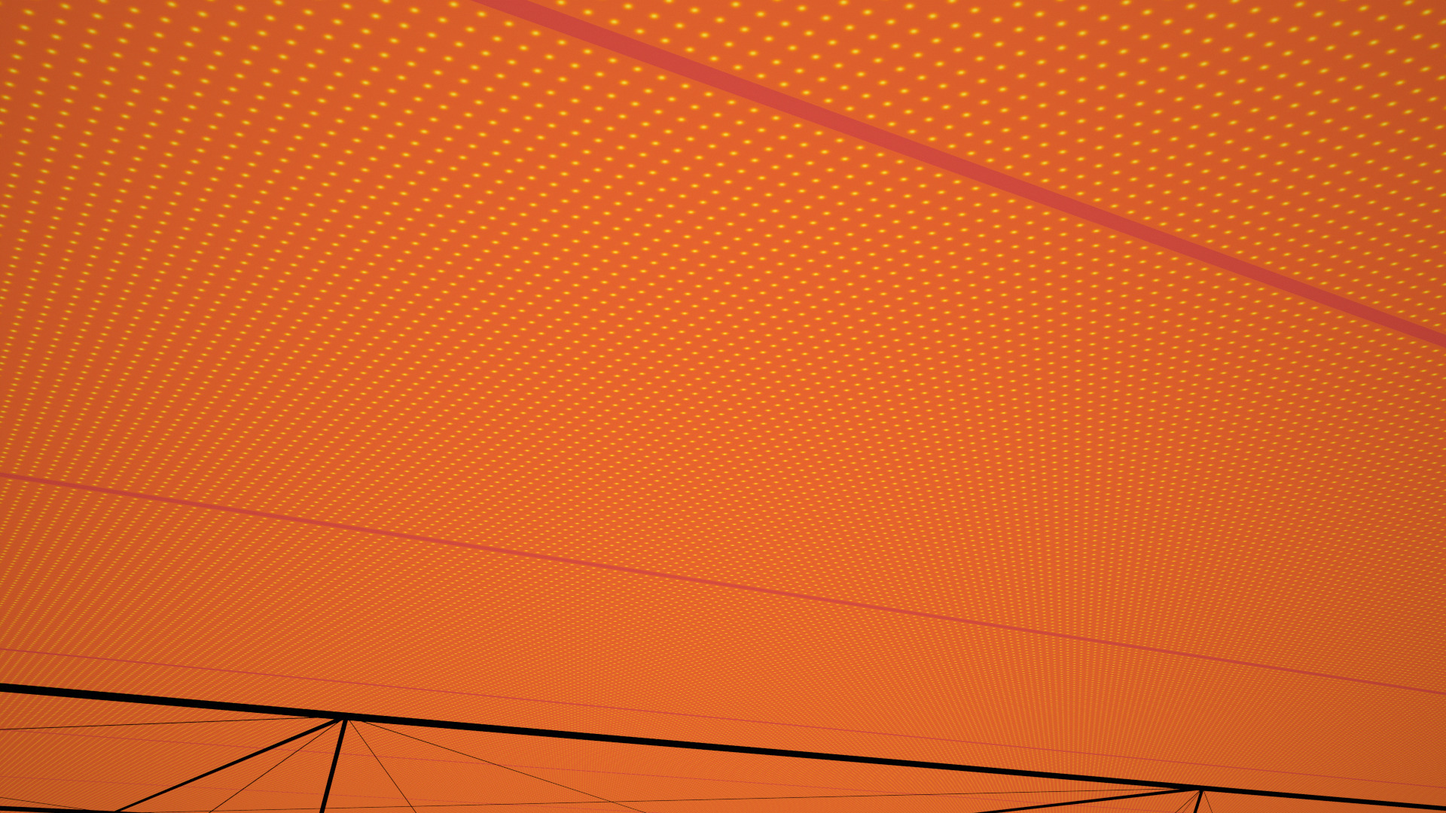
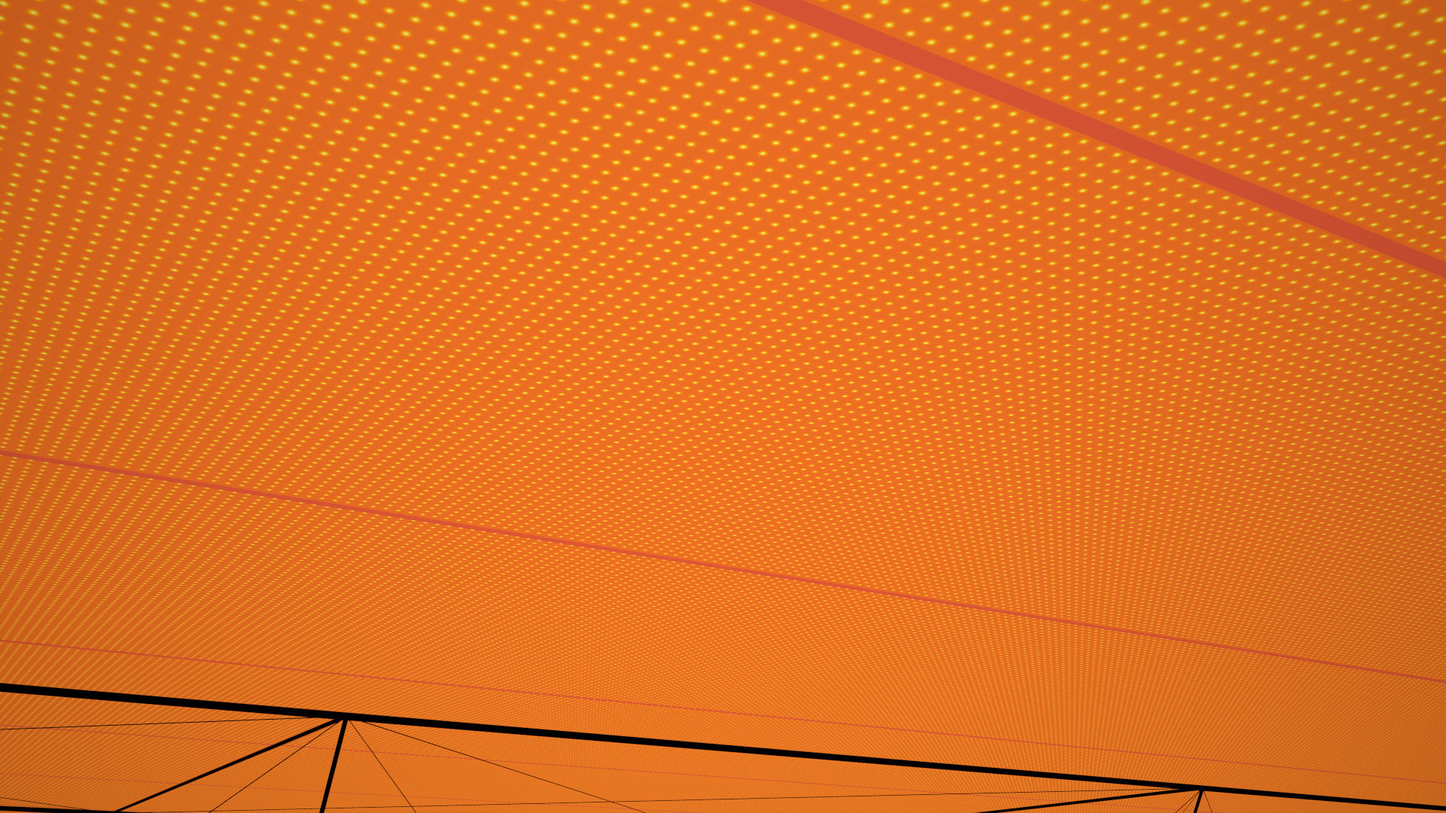
Render: sails carry the hardware of the era the model selects (render/numbers.json from model v4): mature-era chiplet pitch, 12 consolidated laser terminals, optical lanes; hub LWIR view
Claude-Session: https://claude.ai/code/session_01SbDrhYF14UDXonL1ALY6on

Changed region(s): [[0.0, 0.0, 1.0, 1.0]]

diff --git a/render/sail.py b/render/sail.py
@@ -140,11 +140,11 @@ def simple_material(name, spec):
 # Film material (front + back in one, chosen by Backfacing)
 # ---------------------------------------------------------------------------------------------
 
-def film_material(spec, seed=1):
+def film_material(spec, seed=1, pitch=None, lanes=False):
     M = spec['materials']
     parts = spec['parts']
     seg = spec['sail']['segmentation']
-    pitch_tile = parts['tile_grid_front']['dims_m']['pitch']           # 25.4 mm
+    pitch_tile = pitch or parts['tile_grid_front']['dims_m']['pitch']  # 25.4 mm (2026 spec) or from the model
     scribe_w = parts['tile_grid_front']['dims_m']['scribe_width']
     hinge_p = seg['fold_panel_width_m']                                # 1.6256 m
     hinge_w = seg['hinge_strips']['width_m']                           # 25.4 mm
@@ -225,6 +225,11 @@ def film_material(spec, seed=1):
     back = g.node('ShaderNodeBsdfPrincipled')
     bcol = g.mix_rgb(chip, (*be['base_color_linear'], 1), (*ch['base_color_linear'], 1))
     bcol = g.mix_rgb(hinge, bcol, (*hs['base_color_linear'], 1))
+    if lanes:
+        lx, _, _ = g.stripe(x, 2.0, 1.0, 0.008)
+        ly, _, _ = g.stripe(y, 2.0, 1.0, 0.008)
+        lane = g.math('MINIMUM', g.math('ADD', lx, ly), 1.0)
+        bcol = g.mix_rgb(lane, bcol, (0.075, 0.07, 0.064, 1))
     g.L.new(bcol, back.inputs['Base Color'])
     g.set(back.inputs['Roughness'], g.mix_f(chip, be['roughness'], ch['roughness']))
     back.inputs['Specular IOR Level'].default_value = be.get('specular_ior_level', 0.5)
@@ -265,10 +270,10 @@ def vane_material(spec):
     return m
 
 
-def materials(spec):
+def materials(spec, pitch=None, lanes=False):
     M = spec['materials']
     return {
-        'film': film_material(spec),
+        'film': film_material(spec, pitch=pitch, lanes=lanes),
         'hem': simple_material('EdgeHem', M['edge_hem_and_doubler']),
         'boom': simple_material('BoomMgOxide', M['boom_mg_oxidised']),
         'vane': vane_material(spec),
@@ -350,9 +355,11 @@ def film_mesh(spec, n=240):
     return bm, edge, LD
 
 
-def build(spec=None, mats=None, seed=4, vane_tilt_deg=6.0, terminals=True, booms=True):
+def build(spec=None, mats=None, seed=4, vane_tilt_deg=6.0, terminals=True, booms=True, era='2026', pitch=None):
+    """era '2026': 60 per-patch terminals on masts (design spec). Any later era: ~12 consolidated
+    terminals (8 x 10 cm at the boom tips and hub, 4 x 30 cm on the hub), optical lanes in the film."""
     spec = spec or load_spec()
-    mats = mats or materials(spec)
+    mats = mats or materials(spec, pitch=pitch, lanes=(era != '2026'))
     P = spec['parts']
     rnd = random.Random(seed)
     root = bpy.data.objects.new('Sail', None)
@@ -472,22 +479,41 @@ def build(spec=None, mats=None, seed=4, vane_tilt_deg=6.0, terminals=True, booms
     objs.append(_obj('VaneBooms', bm_vb, mats['boom'], smooth=True))
 
     # laser terminals on the back face: service plate, mast, yoke, telescope with sunshade
-    if terminals:
+    def terminal(bm, bma, base, size, d, mast=0.6):
+        top = base + Vector((0, 0, -mast))
+        _rod(bm, base, top, max(0.04, size * 0.4), 12)
+        _box(bm, top + Vector((0, 0, -0.05)), (size * 2.2, size, 0.1))
+        c0 = top + Vector((0, 0, -0.15))
+        L = size * 2.5
+        _rod(bm, c0 - d * L / 2, c0 + d * L / 2, size / 2 + 0.02, 20)
+        _rod(bm, c0 + d * L / 2, c0 + d * (L / 2 + size * 1.4), size / 2 + 0.03, 20)
+        _rod(bma, c0 + d * (L / 2 - 0.01), c0 + d * (L / 2 + 0.005), size / 2, 20)
+
+    def aim():
+        az = rnd.uniform(0, 2 * math.pi)
+        el = math.radians(rnd.uniform(-70, -8))                        # into the -Z hemisphere
+        return Vector((math.cos(el) * math.cos(az), math.cos(el) * math.sin(az), math.sin(el)))
+
+    if terminals and era == '2026':
         T = P['patch_terminal']['dims_m']
         bm, bma = bmesh.new(), bmesh.new()
         for (xx, yy) in P['patch_terminal']['xy_m']:
             _box(bm, Vector((xx, yy, -0.011)), (1.0, 1.0, 0.02))
-            top = Vector((xx, yy, -0.62))
-            _rod(bm, Vector((xx, yy, -0.02)), top, T['mast']['diameter'] / 2, 12)
-            _box(bm, top + Vector((0, 0, -0.05)), (0.3, 0.12, 0.1))
-            az = rnd.uniform(0, 2 * math.pi)
-            el = math.radians(rnd.uniform(-70, -8))                    # into the -Z hemisphere
-            d = Vector((math.cos(el) * math.cos(az), math.cos(el) * math.sin(az), math.sin(el)))
-            c0 = top + Vector((0, 0, -0.15))
-            tl = T['telescope']
-            _rod(bm, c0 - d * tl['length'] / 2, c0 + d * tl['length'] / 2, tl['diameter'] / 2, 20)
-            _rod(bm, c0 + d * tl['length'] / 2, c0 + d * (tl['length'] / 2 + T['sunshade_length']), tl['diameter'] / 2 + 0.01, 20)
-            _rod(bma, c0 + d * (tl['length'] / 2 - 0.01), c0 + d * (tl['length'] / 2 + 0.005), tl['aperture'] / 2, 20)
+            terminal(bm, bma, Vector((xx, yy, -0.02)), T['telescope']['aperture'], aim())
+        objs.append(_obj('Terminals', bm, mats['terminal'], smooth=True))
+        objs.append(_obj('TerminalApertures', bma, mats['aperture'], smooth=True))
+    elif terminals:
+        bm, bma = bmesh.new(), bmesh.new()
+        zb = -0.30 - H['depth']
+        # 8 x 10 cm neighbour terminals: one on each boom-tip tensioner, four round the hub
+        for ang in (0, 90, 180, 270):
+            R = Matrix.Rotation(math.radians(ang), 3, 'Z')
+            terminal(bm, bma, R @ Vector((tip - 0.6, 0, -0.4)), 0.10, aim(), mast=0.3)
+            terminal(bm, bma, R @ Vector((2.6, 2.6, -0.32)), 0.10, aim(), mast=0.4)
+        # 4 x 30 cm long-range terminals on the hub's back face
+        for k in range(4):
+            a = math.radians(45 + 90 * k)
+            terminal(bm, bma, Vector((1.0 * math.cos(a), 1.0 * math.sin(a), zb)), 0.30, aim(), mast=0.5)
         objs.append(_obj('Terminals', bm, mats['terminal'], smooth=True))
         objs.append(_obj('TerminalApertures', bma, mats['aperture'], smooth=True))
 
@@ -527,10 +553,14 @@ def brightness_temp(T, eps):
     return 0.5 * (lo + hi)
 
 
-def thermal_view(sc, spec, lo=200.0, hi=360.0):
+def thermal_view(sc, spec, lo=200.0, hi=360.0, pitch=None, film_K=None, chip_K=None):
     import hero
     M = spec['materials']
-    tmp = spec['sail']['temperatures']
+    tmp = dict(spec['sail']['temperatures'])
+    if film_K:
+        tmp['film_K'] = tmp['hinge_K'] = film_K
+    if chip_K:
+        tmp['chiplet_die_K'] = [chip_K - 1.5, chip_K + 1.5]
     e = M
     tb = {
         'film_front': brightness_temp(tmp['film_K'], e['sail_front_pv']['eps_IR']),
@@ -561,7 +591,7 @@ def thermal_view(sc, spec, lo=200.0, hi=360.0):
 
     # film: chiplet dots and hinge strips on the back, uniform front
     P = spec['parts']
-    pitch = P['tile_grid_front']['dims_m']['pitch']
+    pitch = pitch or P['tile_grid_front']['dims_m']['pitch']
     die = P['chiplet']['dims_m'][0]
     seg = spec['sail']['segmentation']
     fm = _new_mat('IR_Film')

diff --git a/render/sail_shot.py b/render/sail_shot.py
@@ -33,6 +33,8 @@ VIEWS = {
     'back': dict(cam=(140, -120, -70), target=(-10, 10, -1.5), lens=28, tilt=(0.15, -0.1)),
     # macro on the back: chiplets, a laser terminal, a hinge strip
     'back_macro': dict(cam=(58.0, -4.2, -0.75), target=(59.0, -2.6, -0.02), lens=35, tilt=(0.15, -0.1)),
+    # behind the hub: the 30 cm long-range terminals and the boom roots
+    'hub_back': dict(cam=(9.0, -7.0, -6.5), target=(0.0, 0.0, -1.6), lens=35, tilt=(0.15, -0.1)),
 }
 
 
@@ -48,22 +50,27 @@ def main(argv):
     ap.add_argument('--lo', type=float, default=300.0, help='LWIR scale bottom (K, brightness temperature)')
     ap.add_argument('--hi', type=float, default=350.0)
     ap.add_argument('--no-denoise', action='store_true')
+    ap.add_argument('--era', default='mid', help="'2026' (design spec) or a model era: low, mid, high")
     a = ap.parse_args(argv)
     spec = sail.load_spec()
-    r = a.r or spec['sail']['temperatures']['placement']['r_AU']
+    num = lib.load_numbers()[a.era]['sparse']          # model v4 (node scripts/export-numbers.mjs)
+    r = a.r or num['r_AU']
+    pitch = num['chip_pitch_m'] if a.era != '2026' else None
     w, h = (int(x) for x in a.res.split('x'))
     sc = lib.reset(samples=a.samples, res=(w, h))
     sc.cycles.max_bounces = 4
     if a.no_denoise:
         sc.cycles.use_denoising = False
-    sail.build(spec)
+    sail.build(spec, era=a.era, pitch=pitch)
     v = VIEWS[a.view]
     tx, ty = (math.radians(t) for t in v['tilt'])
     lib.add_sun(r, direction=(math.sin(tx), math.sin(ty), -1.0))
     lib.camera(Vector(v['cam']), Vector(v['target']), lens=v['lens'])
     lib.meter(sc, lib.flux(r), ev_offset=a.ev)
     if a.thermal:
-        tb = sail.thermal_view(sc, spec, a.lo, a.hi)
+        tb = sail.thermal_view(sc, spec, a.lo, a.hi, pitch=pitch,
+                               film_K=num['film_K'] if a.era != '2026' else None,
+                               chip_K=num['chip_K'] if a.era != '2026' else None)
         print('BRIGHTNESS_T', {k: round(t, 1) for k, t in tb.items()})
     lib.save(sc, a.out)
     print('WROTE', a.out, 'exposure', sc.view_settings.exposure)
